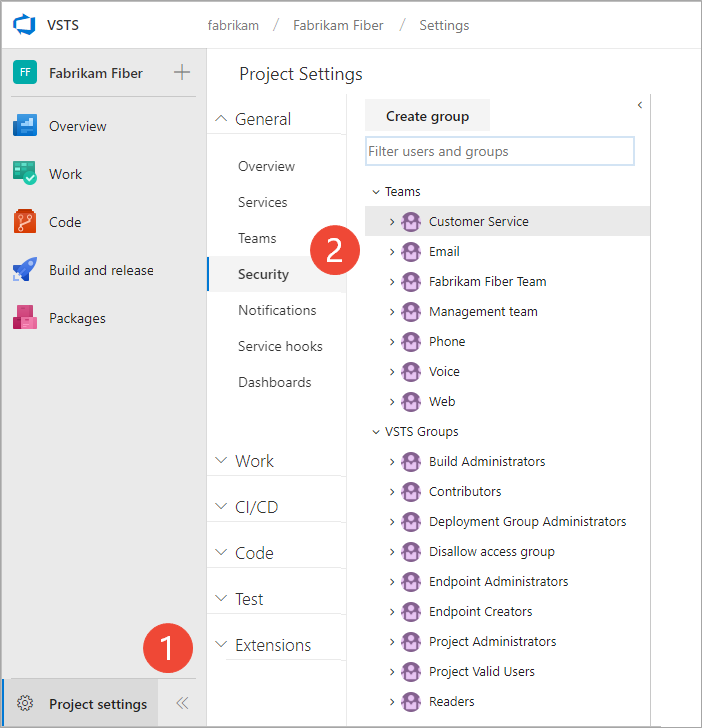
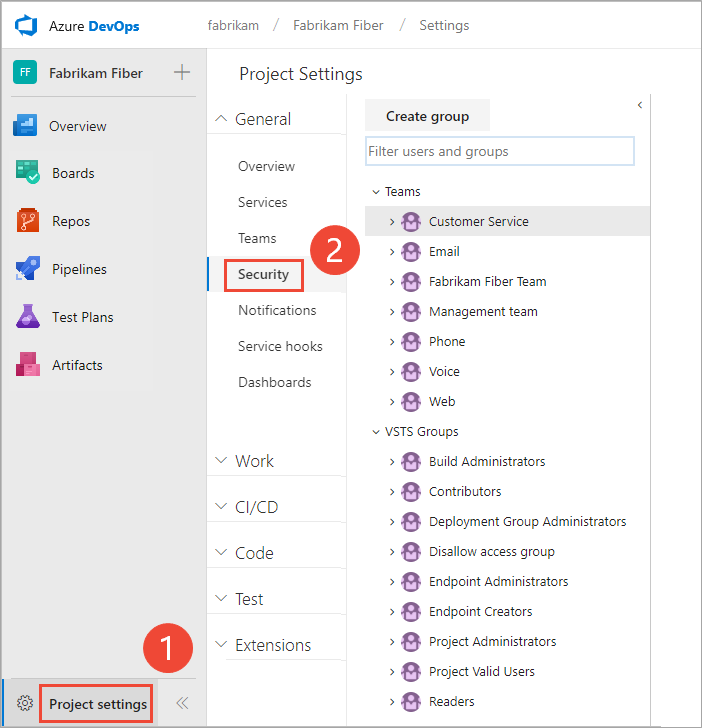
updates to /projects

diff --git a/docs/organizations/projects/connect-to-projects.md b/docs/organizations/projects/connect-to-projects.md
@@ -1,7 +1,7 @@
 ---
 title: Connect to a project from a web browser or supported client
-titleSuffix: VSTS & TFS
-description: Connect a client to the cloud service Visual Studio Team Services or on-premises Team Foundation Server (TFS) 
+titleSuffix: Azure DevOps Services & TFS
+description: Connect a client to the cloud service Azure DevOps Services or on-premises Team Foundation Server (TFS) 
 ms.technology: devops-new-user
 ms.prod: devops
 ms.topic: quickstart
@@ -14,7 +14,7 @@ monikerRange: '>= tfs-2013'
 ---
 
 
-# Connect to a project on VSTS or TFS
+# Connect to a project on Azure DevOps Services or TFS
 
 [!INCLUDE [temp](../../_shared/version-vsts-tfs-all-versions.md)]
 
@@ -23,14 +23,14 @@ To share code, build apps, track work, and collaborate with team members, you co
 - [Web portal](#web-portal)  
 - [Visual Studio or Team Explorer](#visual-studio)  
 - [Eclipse/Team Explorer Everywhere](../../repos/git/share-your-code-in-git-eclipse.md)
-- [Android Studio with the VSTS Plugin for Android Studio](../../java/download-android-studio-plug-in.md)  
-- [IntelliJ with the VSTS Plugin for IntelliJ](../../java/download-intellij-plug-in.md) 
+- [Android Studio with the Azure DevOps Services Plugin for Android Studio](../../java/download-android-studio-plug-in.md)  
+- [IntelliJ with the Azure DevOps Services Plugin for IntelliJ](../../java/download-intellij-plug-in.md) 
 - [Visual Studio Code](../../java/vscode-extension.md)    
 
 > [!NOTE]
 > A project defines a process and data storage in which you manage your software projects from planning to deployment. When you connect to a project, you connect to an organization or project collection. Within that collection, one or more projects may be defined. At a minimum, at least one project must be created in order to use the system. For more information, see [About projects and scaling your organization](about-projects.md).
 
-If you don't have a project yet, create one in [VSTS](../accounts/set-up-vs.md) or set one up in an [on-premises TFS](create-project.md). If you need to add a team, see [Add teams](../../organizations/settings/add-teams.md). If you don't have access to the project, [get invited to the team](../security/add-users-team-project.md). 
+If you don't have a project yet, [create one](create-project.md). If you need to add a team, see [Add teams](../../organizations/settings/add-teams.md). If you don't have access to the project, [get invited to the team](../security/add-users-team-project.md). 
 
 From each of these clients, you can quickly switch context to a different project and connect under a different sign-in user name. If you work remotely, you can configure your client to [connect to a TFS Proxy server](#proxy).
 
@@ -62,7 +62,7 @@ To get started with a code base, [set up Git](../../repos/git/gitquickstart.md) 
     > If you select the **Remember me** check box you won't have to enter your credentials the next time you connect. 
  
 ::: moniker range=">= tfs-2017"   
-0. From the project summary page, hover over a service and then choose the page of interest. To choose another project, choose the ![](../../_img/icons/project-icon.png) VSTS icon.  
+0. From the project summary page, hover over a service and then choose the page of interest. To choose another project, choose the ![](../../_img/icons/project-icon.png) Azure DevOps logo.  
 
 	> [!div class="mx-imgBorder"]  
 	> ![Choose a service page, horizontal nav](_img/connect-projects/project-summary-page-choose-app-horz.png)  
@@ -163,7 +163,7 @@ Your client remembers the set of connections you've configured. You can quickly 
 
 ::: moniker-end
 
-### Change sign-in credentials when connecting to VSTS
+### Change sign-in credentials
  
 ::: moniker range="tfs-2017"
 
@@ -178,9 +178,9 @@ Your client remembers the set of connections you've configured. You can quickly 
 
 	Select a different user from the drop-down or select **Add an account...** to access a project using different sign-in credentials.
 
-	![Connect with VS 2017 TFS or VSTS using different sign-in credentials](_img/connect-projects-tfs/choose-different-user-vs2017.png) 
+	![Connect with VS 2017 using different sign-in credentials](_img/connect-projects-tfs/choose-different-user-vs2017.png) 
 
-2. Sign in using a valid Microsoft account &mdash; an account that is associated with a VSTS or TFS project.
+2. Sign in using a valid Microsoft account &mdash; an account that is associated with an Azure DevOps Services or TFS project.
 
 ::: moniker-end
 
@@ -192,11 +192,11 @@ Your client remembers the set of connections you've configured. You can quickly 
 
 	![connect to projects](_img/te-connect-page-connect-to-team-project.png)  
 
-	The **Switch User** link appears only when you are actively connected to a project hosted on VSTS.  
+	The **Switch User** link appears only when you are actively connected to a project on Azure DevOps Services.  
 
 	![Connect to Team Foundation Server dialog box](_img/connect-projects-tfs/IC719958.png) 
 
-2. Sign in using a valid Microsoft account &mdash; an account that is associated with a VSTS or TFS project. 
+2. Sign in using a valid Microsoft account &mdash; an account that is associated with a Azure DevOps Services or TFS project. 
 
 ::: moniker-end
 
@@ -214,19 +214,19 @@ You can locate the executable in the following folder: *Drive*:\\Program Files (
 
 ## Connect from Microsoft Excel or Project
 
-To add or modify work items by using Excel or Project, you connect your worksheet or project plan to a project. Establishing this connection binds the document to the VSTS organization or selected TFS, project collection, and project to exchange information. 
+To add or modify work items by using Excel or Project, you connect your worksheet or project plan to a project. Establishing this connection binds the document to the Azure DevOps Services organization or selected TFS, project collection, and project to exchange information. 
  
 
 > [!NOTE]  
-> You can't use Office Project 365 to connect to VSTS or TFS.
+> You can't use Office Project 365 to connect to Azure DevOps Services or TFS.
  
 ### Connect from a worksheet or project plan
 
 To follow these procedures, you must be a member of the **Readers** group or have your **View work items in this node** permission set to **Allow**. See [Permission reference](../security/permissions.md) for details.
 
-1.  If you don't have Office Excel 2007 or a more recent version, [install it](https://products.office.com/excel). For VSTS or TFS 2017, you'll need Project 2010 or a more recent version. For client compatibility, see [Client compatibility](/tfs/server/compatibility)
+1.  If you don't have Office Excel 2007 or a more recent version, [install it](https://products.office.com/excel). For Azure DevOps Services or TFS 2017, you'll need Project 2010 or a more recent version. For client compatibility, see [Client compatibility](/tfs/server/compatibility)
 
-2.  If you haven't installed a version of [Visual Studio (2010 or later)](https://visualstudio.microsoft.com/downloads/download-visual-studio-vs) or [Team Foundation Server Standalone Office Integration (free)](https://visualstudio.microsoft.com/downloads/?q=Office+Integration), you'll need to install one of these versions to connect to a project defined on VSTS or an on-premises TFS. 
+2.  If you haven't installed a version of [Visual Studio (2010 or later)](https://visualstudio.microsoft.com/downloads/download-visual-studio-vs) or [Team Foundation Server Standalone Office Integration (free)](https://visualstudio.microsoft.com/downloads/?q=Office+Integration), you'll need to install one of these versions to connect to a project defined on Azure DevOps Services or an on-premises TFS. 
 
 	> [!NOTE]  
 	> **Feature availability:** The only way to get the Team Foundation add-in to Excel is by installing one of the latest editions of Visual Studio or [TFS Standalone Office Integration](https://visualstudio.microsoft.com/downloads/?q=Office+Integration).   
@@ -238,11 +238,11 @@ To follow these procedures, you must be a member of the **Readers** group or hav
     > [!TIP]    
     > If the **Team** ribbon no longer appears, you might need to [re-enable it](https://docs.microsoft.com/visualstudio/vsto/how-to-re-enable-a-vsto-add-in-that-has-been-disabled).
 
-4.  Connect to a VSTS organization or a TFS instance and the project. If you can't connect, [get added as a team member](../security/add-users-team-project.md).
+4.  Connect to an Azure DevOps Services organization or a TFS instance and the project. If you can't connect, [get added as a team member](../security/add-users-team-project.md).
 
     ![Connect to server](../../boards/backlogs/office/_img/IC680074.png)
 
-    If it is your first time connecting from Excel or Project, you might have to add the VSTS organization or TFS server to the list of recognized servers.
+    If it is your first time connecting from Excel or Project, you might have to add the Azure DevOps Services organization or TFS server to the list of recognized servers.
 
     ![Add organization or server](../../boards/backlogs/office/_img/IC658167.png)
 
@@ -310,15 +310,15 @@ To start planning and tracking work, see [Get started with Agile tools to plan a
 
 ### User accounts and licensing
 
-To connect to a project, you need your user account added to the project. This is typically done by the [organization owner (VSTS)](../accounts/add-organization-users-from-user-hub.md) or a [project administrator](../security/set-project-collection-level-permissions.md). 
+To connect to a project, you need your user account added to the project. This is typically done by the [organization owner (Azure DevOps Services)](../accounts/add-organization-users-from-user-hub.md) or a [project administrator](../security/set-project-collection-level-permissions.md). 
 
 ::: moniker range="vsts"
-VSTS provides access to the first 5 account users free. After that, you need to [pay for more users (VSTS)](../../billing/buy-basic-access-add-users.md). 
+Azure DevOps Services provides access to the first 5 account users free. After that, you need to [pay for more users](../../billing/buy-basic-access-add-users.md). 
 ::: moniker-end
 
 ::: moniker range=">= tfs-2013 <= tfs-2018"
 
-For on-premises TFS, each user account must have a TFS client access license (CAL). All Visual Studio subscriptions and paid VSTS users include a TFS CAL. Find out more about licensing from the [Team Foundation Server pricing page](https://visualstudio.microsoft.com/team-services/tfs-pricing).
+For on-premises TFS, each user account must have a TFS client access license (CAL). All Visual Studio subscriptions and paid Azure DevOps Services users include a TFS CAL. Find out more about licensing from the [Team Foundation Server pricing page](https://visualstudio.microsoft.com/team-services/tfs-pricing).
 
 ::: moniker-end
 
@@ -345,7 +345,7 @@ If your remote team uses a [TFS Proxy server](/tfs/server/install/install-proxy-
 To **Configure User Tools** to associate a file type with a compare or merge tool, see [Associate a file type with a file-comparison tool](../../repos/tfvc/associate-file-type-file-comparison-tool.md) or [Associate a file type with a merge tool](../../repos/tfvc/associate-file-type-merge-tool.md).
 
 
-### What other clients support connection to VSTS and TFS?
+### What other clients support connection to Azure DevOps Services and TFS?
 
 In addition to connecting through a web browser, Visual Studio, Eclipse, Excel, and Project you can connect to a  project from these clients: 
 

diff --git a/docs/organizations/projects/about-projects.md b/docs/organizations/projects/about-projects.md
@@ -1,7 +1,7 @@
 ---
 title: Scale your organization by adding a project
-titleSuffix: VSTS & TFS  
-description: Understand project management for Visual Studio Team Services & Team Foundation Server  
+titleSuffix: Azure DevOps Services & TFS  
+description: Understand project management for Azure DevOps Services & Team Foundation Server  
 ms.technology: devops-new-user 
 ms.prod: devops
 ms.assetid:  
@@ -18,7 +18,7 @@ ms.date: 07/12/2018
 
 [!INCLUDE [temp](../../_shared/version-vsts-tfs-all-versions.md)] 
 
-A project provides a repository for source code and a place for a group of people to plan, track progress, and collaborate on building software solutions. It represents a fundamental container where data is stored when added to Visual Studio Team Services (VSTS) or Team Foundation Server (TFS).
+A project provides a repository for source code and a place for a group of people to plan, track progress, and collaborate on building software solutions. It represents a fundamental container where data is stored when added to Azure DevOps Services or Team Foundation Server (TFS).
 
 When you create your project, a team of the same name is automatically created. For small teams, this is sufficient. However, for enterprise-level organizations, it may be necessary to scale up, to create additional teams and/or projects. These can be created within the single account or collection. 
 
@@ -49,7 +49,7 @@ The collection-project-team structure provides teams a high-level of autonomy to
 
 *How do you scale your DevOps and Agile tools to support your growing enterprise?*  
 
-When you connect to VSTS or TFS, you connect to an organization or project collection. Within that container, one or more projects may be defined. At a minimum, at least one project must be created in order to use the system. 
+When you connect to Azure DevOps Services or TFS, you connect to an organization or project collection. Within that container, one or more projects may be defined. At a minimum, at least one project must be created in order to use the system. 
 
 ::: moniker range="vsts"
 You can scale your organization in the following ways:
@@ -73,7 +73,7 @@ You can scale your on-premises TFS deployment in the following ways:
 - To manage a large number of users, you can manage access through Active Directory
 ::: moniker-end
 
-Both VSTS and TFS are enterprise-ready platforms that support teams of any size, from tens to thousands. VSTS, our cloud service, provides a scalable, reliable, and globally available hosted service. It is backed by a 99.9% SLA, monitored by our 24x7 operations team, and available in local data centers around the world.
+Both Azure DevOps Services and TFS are enterprise-ready platforms that support teams of any size, from tens to thousands. Azure DevOps Services, our cloud service, provides a scalable, reliable, and globally available hosted service. It is backed by a 99.9% SLA, monitored by our 24x7 operations team, and available in local data centers around the world.
 
 ## How to view projects defined for your organization or collection 
 You can view the projects defined for your organization by opening the **Projects** page. 
@@ -85,7 +85,7 @@ You can view the projects defined for your organization by opening the **Project
 
 ::: moniker range="vsts"
 
-0. Choose the ![](../../_img/icons/project-icon.png) VSTS icon to open **Projects**. 
+0. Choose the ![](../../_img/icons/project-icon.png) Azure DevOps logo to open **Projects**. 
 
 	> [!div class="mx-imgBorder"]  
 	> ![Open Projects](_img/about-projects/projects-hub-vert.png)  
@@ -102,7 +102,7 @@ You can view the projects defined for your organization by opening the **Project
 
 ::: moniker range=">= tfs-2017"
 
-0. Choose the ![](../../_img/icons/project-icon.png) VSTS icon to open **Projects**. 
+0. Choose the ![](../../_img/icons/project-icon.png) Azure DevOps logo to open **Projects**. 
 
 	> [!div class="mx-imgBorder"]  
 	> ![Open Projects, horizontal nav](../../_shared/_img/settings/open-project-hub-horz.png)   
@@ -238,7 +238,7 @@ See also, [Compatibility with TFS versions](/tfs/server/compatibility).
 
 - [Navigation basics](../../project/navigation/index.md) 
 - [What do I get with a project?](../../user-guide/services.md?toc=/vsts/organizations/projects/toc.json&bc=/vsts/organizations/projects/breadcrumb/toc.json)
-- [Understand differences between VSTS and TFS](../../user-guide/about-vsts-tfs.md?toc=/vsts/organizations/projects/toc.json&bc=/vsts/organizations/projects/breadcrumb/toc.json)
+- [Understand differences between Azure DevOps Services and TFS](../../user-guide/about-vsts-tfs.md?toc=/vsts/organizations/projects/toc.json&bc=/vsts/organizations/projects/breadcrumb/toc.json)
 
 <!--- Various blog resources 
 

diff --git a/docs/organizations/projects/create-project.md b/docs/organizations/projects/create-project.md
@@ -1,6 +1,6 @@
 ---
-title: Create a project in VSTS or Team Foundation Server (TFS)
-description: Add a project in VSTS or on-premises Team Foundation Server (TFS)
+title: Create a project in Azure DevOps Services or Team Foundation Server (TFS)
+description: Add a project in Azure DevOps Services or on-premises Team Foundation Server (TFS)
 ms.assetid: 21F3C364-34F4-41B0-9EFC-6D4A141D81E0
 ms.prod: devops
 ms.technology: devops-accounts
@@ -16,7 +16,6 @@ ms.date: 07/12/2018
 
 [!INCLUDE [temp](../../_shared/version-vsts-tfs-all-versions.md)]  
 
-
 You add another project to establish a repository for source code and a place for a group of developers and teams to plan, track progress, and collaborate on building software solutions. Each project you add provides boundaries to isolate data from other projects and must be managed and structured to support your business needs. To learn more about projects and when or when not to add one, see [About projects and scaling your organization](about-projects.md).
 
 <!---Projects differ from [software application projects or solutions](https://msdn.microsoft.com/library/zfzh36t7.aspx). -->  
@@ -24,7 +23,7 @@ You add another project to establish a repository for source code and a place fo
 ::: moniker range=">= tfs-2013 <= tfs-2018"
 > [!NOTE]
 > If you don't want to manage an on-premises server, you can 
-[sign up for VSTS and create a project](../accounts/create-organization-msa-or-work-student.md). 
+[sign up for Azure DevOps Services and create a project](../accounts/create-organization-msa-or-work-student.md). 
 ::: moniker-end
 
 If you have a project already, and want to start coding an application project, then see one of the following topics:  [Set up Git on your dev machine](../../repos/git/gitquickstart.md) or [Develop your app in Team Foundation version control](../../repos/git/gitquickstart.md).
@@ -66,7 +65,7 @@ If you're not a member of the Project Collection Administrators Group, [get adde
 
 ::: moniker range="vsts"
 
-0. Choose the ![](../../_img/icons/project-icon.png) VSTS icon to open the **Projects** page, and then choose **Create Project**.
+0. Choose the ![](../../_img/icons/project-icon.png) Azure DevOps logo to open the **Projects** page, and then choose **Create Project**.
 
 	> [!div class="mx-imgBorder"]  
 	> ![Open Projects](_img/create-project/projects-hub-vert-create-project.png)  
@@ -90,7 +89,7 @@ If you're not a member of the Project Collection Administrators Group, [get adde
 
 ::: moniker range="vsts"
 
-0. Choose the ![](../../_img/icons/project-icon.png) VSTS icon to open the **Projects** page, and then choose **New Project**.
+0. Choose the ![](../../_img/icons/project-icon.png) Azure DevOps logo to open the **Projects** page, and then choose **New Project**.
 
 	> [!div class="mx-imgBorder"]  
 	> ![Choose new project, horizontal navigation](_img/create-project/projects-hub-horz-new-project.png)  
@@ -109,7 +108,7 @@ If you're not a member of the Project Collection Administrators Group, [get adde
 > [!NOTE]   
 > TFS 2018 and later versions no longer support native integration with SharePoint products. If you're planning to upgrade to TFS 2018, read [About SharePoint integration](/vsts/report/sharepoint-dashboards/about-sharepoint-integration) to learn about the options available to you. 
 
-0. Choose the ![](../../_img/icons/project-icon.png) VSTS icon to open the **Projects** page, and then choose **New Project**.
+0. Choose the ![](../../_img/icons/project-icon.png) Azure DevOps logo to open the **Projects** page, and then choose **New Project**.
 
 	> [!div class="mx-imgBorder"]  
 	> ![Choose new project, horizontal navigation](_img/create-project/projects-hub-horz-new-project.png)  
@@ -260,13 +259,13 @@ You can create a project from Team Explorer after you have connected to an on-pr
 
 ## Add a project from the command line or scripts
 
-You can create and get projects and other VSTS items from the command line or scripts using the VSTS CLI. Check out the [VSTS CLI documentation](https://docs.microsoft.com/cli/vsts/overview?view=vsts-cli-latest) to learn more.
+You can create and retrieve projects and other objects  from the command line or scripts using the CLI. Check out the [CLI documentation](https://docs.microsoft.com/cli/vsts/overview?view=vsts-cli-latest) to learn more.
 
 ::: moniker-end
 
 ::: moniker range="tfs-2017"
 > [!NOTE]   
-> The VSTS CLI is supported for TFS 2017.2 and later versions. 
+> The CLI is supported for TFS 2017.2 and later versions. 
 
 ::: moniker-end
 

diff --git a/docs/organizations/projects/delete-project.md b/docs/organizations/projects/delete-project.md
@@ -1,7 +1,7 @@
 ---
 title: Delete or remove a project
-titleSuffix: VSTS & TFS
-description: Delete or remove a project from Visual Studio Team Services (VSTS) or from Team Foundation Server (TFS)
+titleSuffix: Azure DevOps Services & TFS
+description: Delete or remove a project from Azure DevOps Services or from Team Foundation Server (TFS)
 ms.assetid: f8638962-1732-4600-94bb-3dc34e0ac48e
 ms.prod: devops
 ms.technology: devops-accounts
@@ -17,7 +17,7 @@ ms.date: 07/12/2018
 
 [!INCLUDE [temp](../../_shared/version-vsts-tfs-all-versions.md)]  
 
-If you find that you have a project you no longer use, you can delete it. Deleting a project helps simplify the navigation to projects that are in use. You can delete a project from VSTS or from an on-premises deployment of Team Foundation Server (TFS).
+If you find that you have a project you no longer use, you can delete it. Deleting a project helps simplify the navigation to projects that are in use. You can delete a project from Azure DevOps Services or from an on-premises deployment of Team Foundation Server (TFS).
 
 [!INCLUDE [temp](../../_shared/navigation.md)] 
 
@@ -34,7 +34,7 @@ If you find that you have a project you no longer use, you can delete it. Deleti
 	> [!div class="mx-imgBorder"]  
 	> ![Choose Delete menu option](_img/delete-project/choose-delete-menu-option.png)
 
-    If you don't see the actions icon ![actions icon image](../../_img/icons/actions-icon.png), either you're not accessing VSTS or you're not a member of the Project Collection Administrators group. Learn about [joining the Project Collection Administrators group](../security/set-project-collection-level-permissions.md).
+    If you don't see the actions icon ![actions icon image](../../_img/icons/actions-icon.png), either you're not accessing Azure DevOps Services or you're not a member of the Project Collection Administrators group. Learn about [joining the Project Collection Administrators group](../security/set-project-collection-level-permissions.md).
 
 0. You must type the name of the project in order to initiate the delete operation. 
 

diff --git a/docs/organizations/projects/index.md b/docs/organizations/projects/index.md
@@ -1,16 +1,18 @@
 ---
 title: Add and manage projects to support collaboration on software development 
-description: Index to topics for managing the account for Visual Studio Team Services (VSTS)
+description: Index to topics for managing the account for Azure DevOps Services
 ms.prod: devops
 ms.technology: devops-accounts
 ms.assetid: 753DE499-C3D1-426B-B2B0-855D99669223
 ms.topic: conceptual
 ms.manager: douge
-ms.author: chcomley
-author: chcomley
+ms.author: kaelli
+author: KathrynEE
 ms.date: 10/06/2017
 monikerRange: '>= tfs-2013'
 ---
+
+
 # Project Management
 
 [!INCLUDE [temp](../../_shared/version-vsts-tfs-all-versions.md)] 
@@ -54,4 +56,4 @@ Add, rename, and delete projects as you scale your organization.
 * [New User Guide](../../user-guide/index.md)
 * [Public Projects](../public/index.md)
 * [Security & Identity](../../organizations/security/index.md)
-* [Migrate from TFS to VSTS](../../articles/migrate-to-vsts-from-tfs.md)
+* [Migrate from TFS to Azure DevOps Services](../../articles/migrate-to-vsts-from-tfs.md)

diff --git a/docs/organizations/projects/resources-granted-to-project-members.md b/docs/organizations/projects/resources-granted-to-project-members.md
@@ -1,6 +1,6 @@
 ---
 title: Resources granted to project members
-titleSuffix: VSTS & TFS
+titleSuffix: Azure DevOps Services & TFS
 description: Security and data access considerations and resources granted when you add members to a project or organization 
 ms.prod: devops
 ms.technology: devops-accounts
@@ -34,7 +34,7 @@ User accounts backed by [Azure Active Directory](/azure/active-directory/) can h
 ## Organization-level resources
 
 Project members have access to resources beyond the specific project.
-Those resources include those defined at the organization-level (VSTS) or project collection level (TFS):
+Those resources include those defined at the organization-level (Azure DevOps Services) or project collection level (TFS):
 
 * Information about other members, including their email address and other contact details, that is hidden from non-members.
 * The Settings area, including security groups and permissions.

diff --git a/docs/organizations/projects/faq-rename-project.md b/docs/organizations/projects/faq-rename-project.md
@@ -20,7 +20,7 @@ monikerRange: '>= tfs-2015'
 
 ### Q: What permission do I need to rename a project?
 
-If you're using VSTS or Team Foundation Server 2017 or later, project rename requires the **Rename project** permission for a project.
+If you're using Azure DevOps Services or Team Foundation Server 2017 or later version, project rename requires the **Rename project** permission for a project.
 If you're using Team Foundation Server 2015, users require **Edit project-level information** permission on a project to rename it. To learn more, see [Add administrators, set permissions at the project-level or project collection-level](../security/set-project-collection-level-permissions.md#change-the-permission-level-for-a-project-level-group)
 
 ### Q: Can I use a project name again?

diff --git a/docs/organizations/security/add-users-team-project.md b/docs/organizations/security/add-users-team-project.md
@@ -37,7 +37,7 @@ Once users have been added to a project, you can browse for that name by display
 ## Add users to a  project
 
 ::: moniker range="vsts"  
-If you are adding a user to VSTS for the first time, see [Add account users for VSTS](../accounts/add-organization-users-from-user-hub.md?toc=/vsts/organizations/security/toc.json&bc=/vsts/organizations/security/breadcrumb/toc.json).
+If you are adding a user to Azure DevOps Services for the first time, see [Add account users for VSTS](../accounts/add-organization-users-from-user-hub.md?toc=/vsts/organizations/security/toc.json&bc=/vsts/organizations/security/breadcrumb/toc.json).
 ::: moniker-end
 
 [!INCLUDE [temp](../../_shared/new-navigation.md)]  

diff --git a/docs/organizations/projects/rename-project.md b/docs/organizations/projects/rename-project.md
@@ -1,6 +1,6 @@
 ---
-title: Rename a project in VSTS or TFS
-description: You can rename your project in VSTS or TFS, and then there are some things you need to do to work with the renamed project.
+title: Rename a project in Azure DevOps Services or TFS
+description: You can rename your project in Azure DevOps Services or TFS, and then there are some things you need to do to work with the renamed project.
 ms.prod: devops
 ms.technology: devops-accounts
 ms.assetid: 23729f9a-9947-4fc1-89b0-07e3b52298ac

diff --git a/docs/organizations/projects/save-project-data.md b/docs/organizations/projects/save-project-data.md
@@ -1,7 +1,7 @@
 ---
 title: Save project data 
-titleSuffix: VSTS & TFS
-description: Save project data, like source code, custom build templates, build data, and work items, for Visual Studio Team Services (VSTS)
+titleSuffix: Azure DevOps Services & TFS
+description: Save project data, like source code, custom build templates, build data, and work items, for Azure DevOps Services
 ms.assetid: b944f980-81c0-4100-b0d8-2fc575c65693
 ms.prod: devops
 ms.technology: devops-accounts
